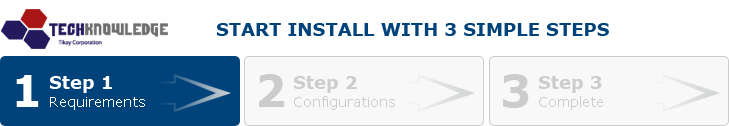
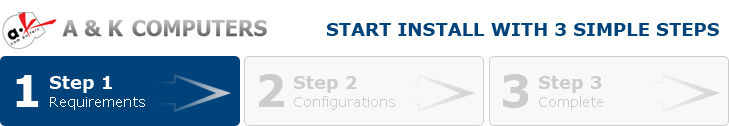
fix install

Changed region(s): [[0.0, 0.0714, 0.9959, 0.4048]]

diff --git a/install/install.php b/install/install.php
@@ -194,7 +194,7 @@ After log in, don't forget to change your password.
                                         </td>
                                     </tr>
                                 <?php } // end if  ?>
-                                	<tr><td align="center"><br /><font style="font-size:smaller">Copyright © 2001-<?php echo date('Y')?> <a href="http://www.tknowledge.com" target="_blank">TechKnowledge</a>, Tikay Corporation. All rights reserved.</font></td></tr>
+                                	<tr><td align="center"><br /><font style="font-size:smaller">Copyright © 1982-<?php echo date('Y')?> <a href="http://www.akcomp.com" target="_blank">A&K Computer Inc</a>. All rights reserved.</font></td></tr>
                             </table>
                             <input type="hidden" name="hd_process" id="hd_process" value="" />
                         </form>
